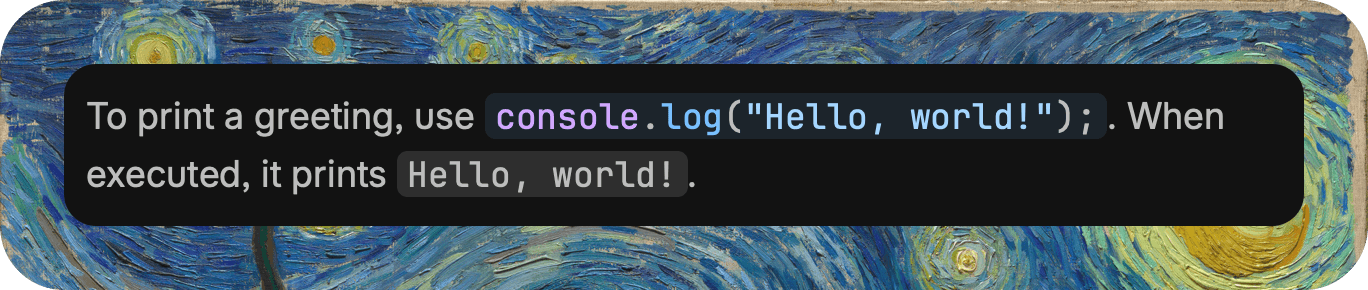
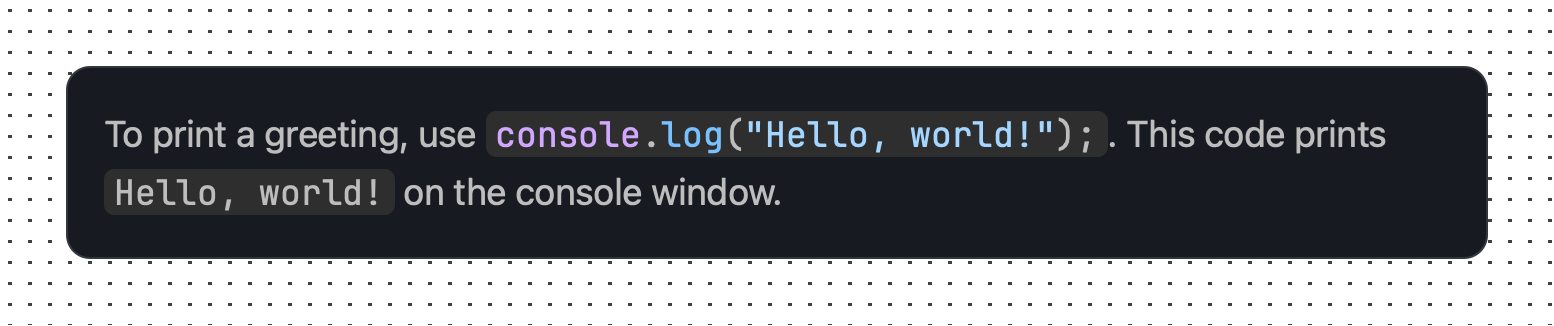
docs: update inline code usage example

diff --git a/README.md b/README.md
@@ -130,7 +130,7 @@ To highlight inline `code` elements, import [`rehype-starry-night-inline`](./src
 Say we have the following file `example.md`:
 
 ```md
-To print a greeting, use `js> console.log("Hello, world!");`. When executed, it prints `Hello, world!`.
+To print a greeting, use `js> console.log("Hello, world!");`. This code prints `Hello, world!` on the console window.
 ```
 
 And our module `example.js` looks as follows:
@@ -161,7 +161,7 @@ async function main() {
 Running that with `node example.js` yields:
 
 ```html
-<p>To print a greeting, use <code class="hl-inline hl-js"><span class="pl-en">console</span>.<span class="pl-c1">log</span>(<span class="pl-s"><span class="pl-pds">"</span>Hello, world!<span class="pl-pds">"</span></span>);</code>. When executed, it prints <code>Hello, world!</code>.</p>
+<p>To print a greeting, use <code class="hl-inline hl-js"><span class="pl-en">console</span>.<span class="pl-c1">log</span>(<span class="pl-s"><span class="pl-pds">"</span>Hello, world!<span class="pl-pds">"</span></span>);</code>. This code prints <code>Hello, world!</code> on the console window.</p>
 ```
 
 ![Highlighting inline code element](./samples/sample-2.png)
